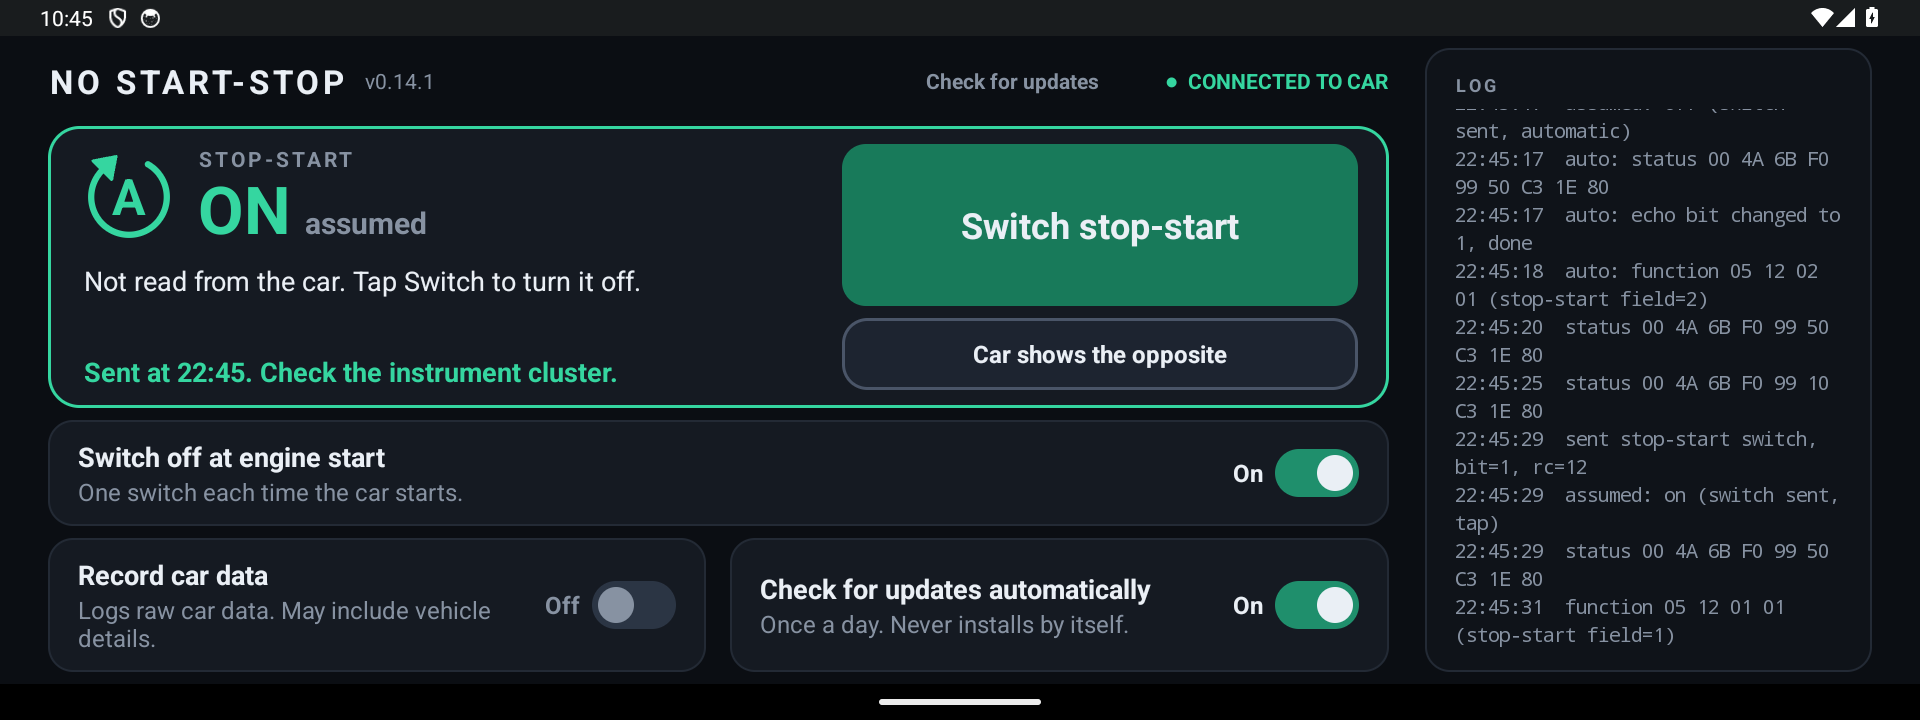
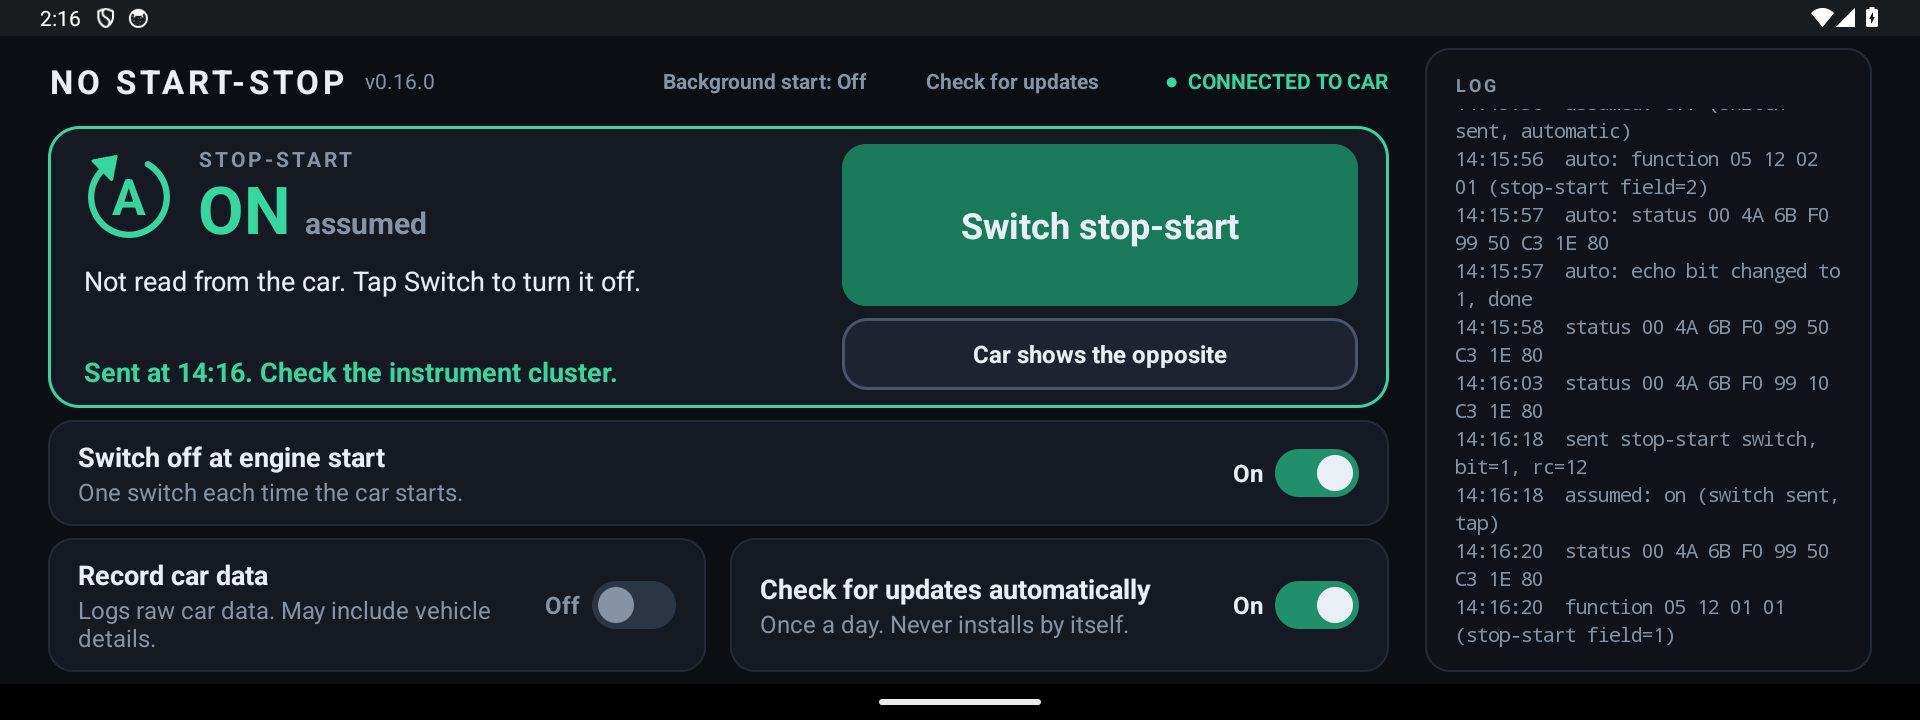
Let Android start the app in the background through a notification listener
The listener reads no notification. A start by it never counts as ignition on,
because Android binds it again right after the head unit stops the app.

diff --git a/src/com/furgo/nostartstop/MainActivity.java b/src/com/furgo/nostartstop/MainActivity.java
@@ -84,10 +84,13 @@ public class MainActivity extends Activity implements CanBox.Listener {
     private float density;
     private TextView linkView;
     private TextView updateView;
+    private TextView startView;      // "Background start: On/Off", opens Android's notification access screen
     private boolean updateBusy;
     private String updateLabel;      // what the update button shows, kept across a rebuild of the screen
     private int updateColor;
     private boolean updatePrimary;
+    private AlertDialog startDialog;
+    private Boolean startShown;      // the background start state last drawn, to log a change made in Settings
     private Updater.Release available;   // non-null once a newer release was found
     private Toggle bootSwitch;
     private boolean askingAboutDiagnostics;
@@ -311,6 +314,7 @@ public class MainActivity extends Activity implements CanBox.Listener {
     protected void onDestroy() {
         watch.stop();
         handler.removeCallbacks(relayout);
+        if (startDialog != null) startDialog.dismiss();
         super.onDestroy();
     }
 
@@ -616,6 +620,37 @@ public class MainActivity extends Activity implements CanBox.Listener {
         setTelemetry(!Prefs.telemetry(this));
     }
 
+    /** Explains the notification access the background start needs, then opens Android's screen for it. */
+    private void onStartTap() {
+        if (!StartListener.available(this)) {
+            flash("This head unit does not allow a background start.");
+            return;
+        }
+        boolean on = StartListener.enabled(this);
+        startDialog = new AlertDialog.Builder(this)
+                .setTitle(on ? "Background start is on" : "Start with the head unit?")
+                .setMessage("Android can start this app in the background when the head unit powers on or wakes, "
+                        + "so Switch off at engine start also works when another app was on screen.\n\n"
+                        + "It uses Android's notification access, because Android starts apps that have it. "
+                        + "This app does not read any notification.\n\n"
+                        + (on ? "To turn it off, switch off No Start-Stop on the next screen."
+                        : "On the next screen, switch on No Start-Stop."))
+                .setNegativeButton("Cancel", null)
+                .setPositiveButton("Open settings", new DialogInterface.OnClickListener() {
+                    @Override
+                    public void onClick(DialogInterface dialog, int which) {
+                        try {
+                            startActivity(new Intent("android.settings.ACTION_NOTIFICATION_LISTENER_SETTINGS"));
+                            onLog("background start: opened notification access settings");
+                        } catch (RuntimeException e) {
+                            onLog("background start: no notification access settings: " + e);
+                            flash("This head unit has no notification access screen.");
+                        }
+                    }
+                })
+                .show();
+    }
+
     /** Asked once, on the first launch of a build that can share diagnostics. Nothing is sent before an answer. */
     private void askAboutDiagnostics() {
         if (!Telemetry.configured() || Prefs.telemetryAnswered(this) || askingAboutDiagnostics) return;
@@ -808,6 +843,13 @@ public class MainActivity extends Activity implements CanBox.Listener {
     }
 
     private void renderBoot() {
+        boolean startOn = StartListener.enabled(this);
+        if (startShown == null || startOn != startShown) {
+            if (startShown != null) onLog(startOn ? "background start on" : "background start off");
+            startShown = startOn;
+        }
+        startView.setText("Background start: " + (startOn ? "On" : "Off"));
+        startView.setTextColor(startOn ? TEXT : MUTED);
         renderSwitch(bootSwitch, Prefs.applyAtBoot(this));
         renderSwitch(captureSwitch, Prefs.captureFrames(this));
         if (telemetrySwitch != null) renderSwitch(telemetrySwitch, Prefs.telemetry(this));
@@ -962,6 +1004,16 @@ public class MainActivity extends Activity implements CanBox.Listener {
                 onUpdateClick();
             }
         });
+        startView = text("", 14, MUTED, true);
+        startView.setGravity(Gravity.CENTER);
+        startView.setPadding(dp(20), 0, dp(20), 0);
+        startView.setBackgroundDrawable(pressable(0, NEUTRAL_PRESSED, 0));
+        startView.setOnClickListener(new View.OnClickListener() {
+            @Override
+            public void onClick(View view) {
+                onStartTap();
+            }
+        });
         linkView = text("", 14, MUTED, true);
         LinearLayout.LayoutParams updateLp = new LinearLayout.LayoutParams(-2, dp(36));
         if (narrow) {
@@ -971,7 +1023,12 @@ public class MainActivity extends Activity implements CanBox.Listener {
             second.addView(linkView, new LinearLayout.LayoutParams(0, -2, 1f));
             second.addView(updateView, updateLp);
             left.addView(second, new LinearLayout.LayoutParams(-1, -2));
+            LinearLayout third = new LinearLayout(this);
+            third.setGravity(Gravity.CENTER_VERTICAL | Gravity.RIGHT);
+            third.addView(startView, new LinearLayout.LayoutParams(-2, dp(36)));
+            left.addView(third, new LinearLayout.LayoutParams(-1, -2));
         } else {
+            header.addView(startView, new LinearLayout.LayoutParams(-2, dp(36)));
             updateLp.rightMargin = dp(24);
             header.addView(updateView, updateLp);
             header.addView(linkView);

diff --git a/src/com/furgo/nostartstop/StartListener.java b/src/com/furgo/nostartstop/StartListener.java
@@ -1,0 +1,49 @@
+package com.furgo.nostartstop;
+
+import android.app.ActivityManager;
+import android.content.ComponentName;
+import android.content.Context;
+import android.os.Build;
+import android.os.SystemClock;
+import android.provider.Settings;
+import android.service.notification.NotificationListenerService;
+
+/**
+ * Only a way to get started: Android binds an enabled notification listener by itself when the head unit powers on,
+ * and again after the app was killed, without the app's screen. It reads no notification.
+ */
+public class StartListener extends NotificationListenerService {
+    private static final LogBudget LINES = new LogBudget(40);
+
+    @Override
+    public void onListenerConnected() {
+        if (LINES.take(SystemClock.elapsedRealtime())) {
+            // Time asleep tells a rebind after the head unit woke from one right after it stopped the app.
+            long asleep = (SystemClock.elapsedRealtime() - SystemClock.uptimeMillis()) / 1000;
+            LogFile.append(this, "listener: connected, asleep " + asleep + " s since boot, " + DeviceWatch.facts(this));
+        }
+        WatchService.start(this, PowerWatch.BY_LISTENER);
+    }
+
+    @Override
+    public void onListenerDisconnected() {
+        if (LINES.take(SystemClock.elapsedRealtime())) LogFile.append(this, "listener: disconnected");
+    }
+
+    /** The user gave the app notification access. */
+    static boolean enabled(Context c) {
+        String on = Settings.Secure.getString(c.getContentResolver(), "enabled_notification_listeners");
+        if (on == null) return false;
+        ComponentName me = new ComponentName(c, StartListener.class);
+        for (String s : on.split(":")) {
+            if (me.equals(ComponentName.unflattenFromString(s))) return true;
+        }
+        return false;
+    }
+
+    /** Android 10 and older never bind a notification listener on a low-memory device. */
+    static boolean available(Context c) {
+        ActivityManager am = (ActivityManager) c.getSystemService(Context.ACTIVITY_SERVICE);
+        return Build.VERSION.SDK_INT > 29 || am == null || !am.isLowRamDevice();
+    }
+}

diff --git a/src/com/furgo/nostartstop/PowerWatch.java b/src/com/furgo/nostartstop/PowerWatch.java
@@ -18,7 +18,10 @@ final class PowerWatch {
 
     /** Why the watch service was started; also used in its log line. */
     static final String BY_APP = "by the app", AT_BOOT = "at boot", AFTER_UPDATE = "after update",
-            RESTARTED = "restarted by the system", BY_BROADCAST = "by a broadcast";
+            RESTARTED = "restarted by the system", BY_BROADCAST = "by a broadcast",
+            BY_LISTENER = "by the notification listener";
+    // Not BY_LISTENER: Android binds the listener again seconds after the head unit stops the app at ignition off,
+    // which would look like an ignition on. A service started that way arms on the next crank it sees.
     private static final List<String> WAKE_REASONS = Arrays.asList(BY_APP, AT_BOOT, AFTER_UPDATE, RESTARTED);
 
     private boolean cranking;

diff --git a/test/com/furgo/nostartstop/PowerWatchTest.java b/test/com/furgo/nostartstop/PowerWatchTest.java
@@ -55,6 +55,7 @@ public class PowerWatchTest {
                     !PowerWatch.startIsIgnitionOn(true, how, false, true));
         }
         check("broadcast start", !PowerWatch.startIsIgnitionOn(true, PowerWatch.BY_BROADCAST, false, false));
+        check("listener start", !PowerWatch.startIsIgnitionOn(true, PowerWatch.BY_LISTENER, false, false));
         check("start without a reason", !PowerWatch.startIsIgnitionOn(true, null, false, false));
         check("start with an unknown reason", !PowerWatch.startIsIgnitionOn(true, "by someone", false, false));
 

diff --git a/README.md b/README.md
@@ -34,7 +34,7 @@ While the state is unknown, **Started** and **Stopped** set it by hand from what
 
 ![Unknown state with the Started and Stopped buttons](docs/set-by-hand.png)
 
-In split screen the same screen is one scrolling column, here after a tap on **Stopped**:
+In split screen the same screen is one scrolling column:
 
 ![Split screen: one column](docs/split.png)
 
@@ -52,6 +52,7 @@ In split screen the same screen is one scrolling column, here after a tap on **S
   - "Not connected to the car. Nothing sent." for a tap while the indicator next to the title says "NO LINK TO CAR".
 
   Taps are ignored while a command is pending, for 2 seconds after each command is sent, and while **Switch off at engine start** is sending ("Switching…"), so a double tap does not switch it straight back. When idle, the card shows the last switch sent in the current ignition cycle, for example "Last switch: 08:41, automatic".
+- **Background start**: off by default; the header shows **Background start: Off** or **On**. Tap it to open Android's notification access screen and switch on No Start-Stop there. Android then starts the app in the background when the head unit powers on, and again after the app was stopped, so **Switch off at engine start** can work when another app was on screen: it then sends after the next engine crank it sees. The app reads no notification; see [background start](#background-start).
 - **Switch off at engine start**: off by default. When on, the app sends one switch command each time the car starts. The car turns stop-start on at every engine start, so one switch turns it off. See [how it works and its limits](#switch-off-at-engine-start-how-and-limits).
 - **Record car data**: off by default. When on, the log also records the raw frames the CAN box passes on from the car, engine speed (rpm) and vehicle speed, battery voltage and the head unit's identity and configuration, to help find where the car reports the real stop-start state. This data may include vehicle details (for example the VIN, speed or position), so leave it off unless you are helping with that.
 - **Log**: the commands sent, the CAN box status frames, the CAN box function frame, what the automatic switch saw and did (ignition, engine starts, battery voltage), the assumed state, boot, screen, shutdown and network events, and any errors. See [Getting the log off the head unit](#getting-the-log-off-the-head-unit).
@@ -110,6 +111,17 @@ After that the app waits until a battery reading of 13.0 V or more arrives, at l
 - If the link to the car does not come up within 30 seconds, nothing is sent.
 - If the head unit refuses the command, nothing is sent and it is not retried until the next cycle. The main screen then says "Automatic switch failed. Tap to switch." until you switch from the screen.
 
+## Background start
+
+The head unit only reopens the app that was on screen at ignition off, and its wake broadcasts never reached this app on the van. So with another app on screen, such as the phone mirroring app, nothing starts No Start-Stop and no switch is sent.
+
+Android itself starts every app that has notification access, at power on and again after the app was stopped. **Background start** uses that: the app declares a notification listener whose only job is to start the background service of **Switch off at engine start**. It asks for no notification, reads none and stores none. Turn it on or off in Android's notification access screen, which the **Background start** control in the header opens.
+
+- It does nothing while **Switch off at engine start** is off.
+- A start by the listener never counts as ignition on by itself. Android binds the listener again seconds after the head unit stops the app at ignition off, so such a start says nothing about the ignition. A service started that way sends its switch after the next engine crank it sees (power state 9, then 6).
+- Android 10 and older do not start notification listeners on low-memory devices. There a tap on the control says "This head unit does not allow a background start."
+- In an emulator Android restarted the app within seconds of a forced stop and at boot. On the van it is not verified yet, and neither is whether the service then sees the crank: the log shows `listener: connected, asleep … s since boot` and `watch: service started (by the notification listener)` when the start works, then `auto: crank seen` when the crank is seen.
+
 ## The assumed stop-start state
 
 The car turns stop-start on at every engine start, and each switch command flips it. So the app assumes stop-start is on when a cycle starts (an ignition on or an engine start it noticed), and flips the assumed state for each switch it actually sent in that cycle, by a tap or automatically, and for each **Car shows the opposite** tap. A switch sent during an engine crank counts for that engine start. The assumed state survives the app being stopped in the middle of a drive. It is only shown and logged; it does not decide whether anything is sent.
@@ -143,6 +155,7 @@ It is not verified on the van yet. It is a model, not a reading from the car. It
 - Tested on a real Jumpy head unit (Android 10). The switch command works: every command that changes bit 0 flips stop-start, and the instrument cluster shows a message each time.
 - **Switch off at engine start** works on the van: it switched stop-start off at each of 3 engine starts tested. Not verified: whether the head unit restarts the app's background service when another app was on screen at ignition off.
 - The assumed stop-start state and **Car shows the opposite** are not verified on the van yet.
+- **Background start** is not verified on the van yet.
 - The car's real stop-start state is not readable through the settings frame. The app logs the function frame (`function …` lines), a candidate for it, and with **Record car data** on the other CAN box frames (`frame …` lines) so it can be looked for.
 - "Permanently closed" does nothing on this van.
 
@@ -191,7 +204,7 @@ Each line has a date and time. Lines to look for:
 - `assumed: on (ignition on)`, `assumed: on (engine start)`, `assumed: on (engine start, same cycle)`, `assumed: off (switch sent, automatic)`, `assumed: on (switch sent, tap)`, `assumed: on (reported wrong)`, `assumed: off (set by hand)`, `assumed: unknown (ignition off)`, `assumed: unknown (automatic switch off)`, `assumed: unknown (no power messages)`, `assumed: unknown (link silent)`, `assumed: unknown (watch service not started)`: each event that sets the assumed state and why, with the state after it. An event that leaves the state as it was, such as an engine start right after an ignition on, still gets its line (at most 60 lines per 24 hours).
 - `report: car shows ON, app assumed OFF, wake 5 (ignition on), 1 switch sent, 0 reports, cycle 312 s old, last switch 300 s ago (automatic), battery 14.85 V, power state 6`: a **Car shows the opposite** tap, written before the shown state flips. `cycle N s old` counts from the ignition on; after an engine start it reads `engine start N s ago` instead. A battery or power state value older than 10 seconds gets its age, for example `battery 14.85 V 312 s ago`. Fields the app does not know are left out (at most 50 lines per 24 hours).
 - `auto: …`: what the automatic switch did, including why it sent or did not send and whether the CAN box echoed the command. `watch: …` lines come from the background service that waits for the engine.
-- `process started, pid …`, `wake <n> (<source>)`, `power state <n>` and `broadcast <action> (manifest|runtime), up … s`: what the app sees across ignition cycles, to learn how the head unit sleeps and wakes. `watch: service started (…)` says how the service was started (by the app, at boot, after update, by a broadcast or restarted by the system). Capped at 30 `wake`, 60 `power state`, 30 `broadcast` and 60 `auto: battery` lines per 24 hours; the other `auto:` and `watch:` lines are capped too.
+- `process started, pid …`, `wake <n> (<source>)`, `power state <n>` and `broadcast <action> (manifest|runtime), up … s`: what the app sees across ignition cycles, to learn how the head unit sleeps and wakes. `watch: service started (…)` says how the service was started (by the app, at boot, after update, by a broadcast, by the notification listener or restarted by the system). `listener: connected, asleep … s since boot, …` (the head unit's total sleep time, to tell a start after a wake from one right after the app was stopped) and `listener: disconnected`: Android bound or released the [background start](#background-start) listener (at most 40 lines per 24 hours). `background start on` / `off` and `background start: opened notification access settings`: the notification access as the screen last saw it, and a tap on the control. Capped at 30 `wake`, 60 `power state`, 30 `broadcast` and 60 `auto: battery` lines per 24 hours; the other `auto:` and `watch:` lines are capped too.
 - `screen off, up … s` / `screen on, up … s`, `network up (…)` / `network down`: while the app is open, at most 50 network lines each time the app starts.
 - `shutdown, up … s`: the head unit shut down cleanly. Android 9 and later only tell the app while it is running (open or in the background), so on those a missing line does not prove a power cut.
 
